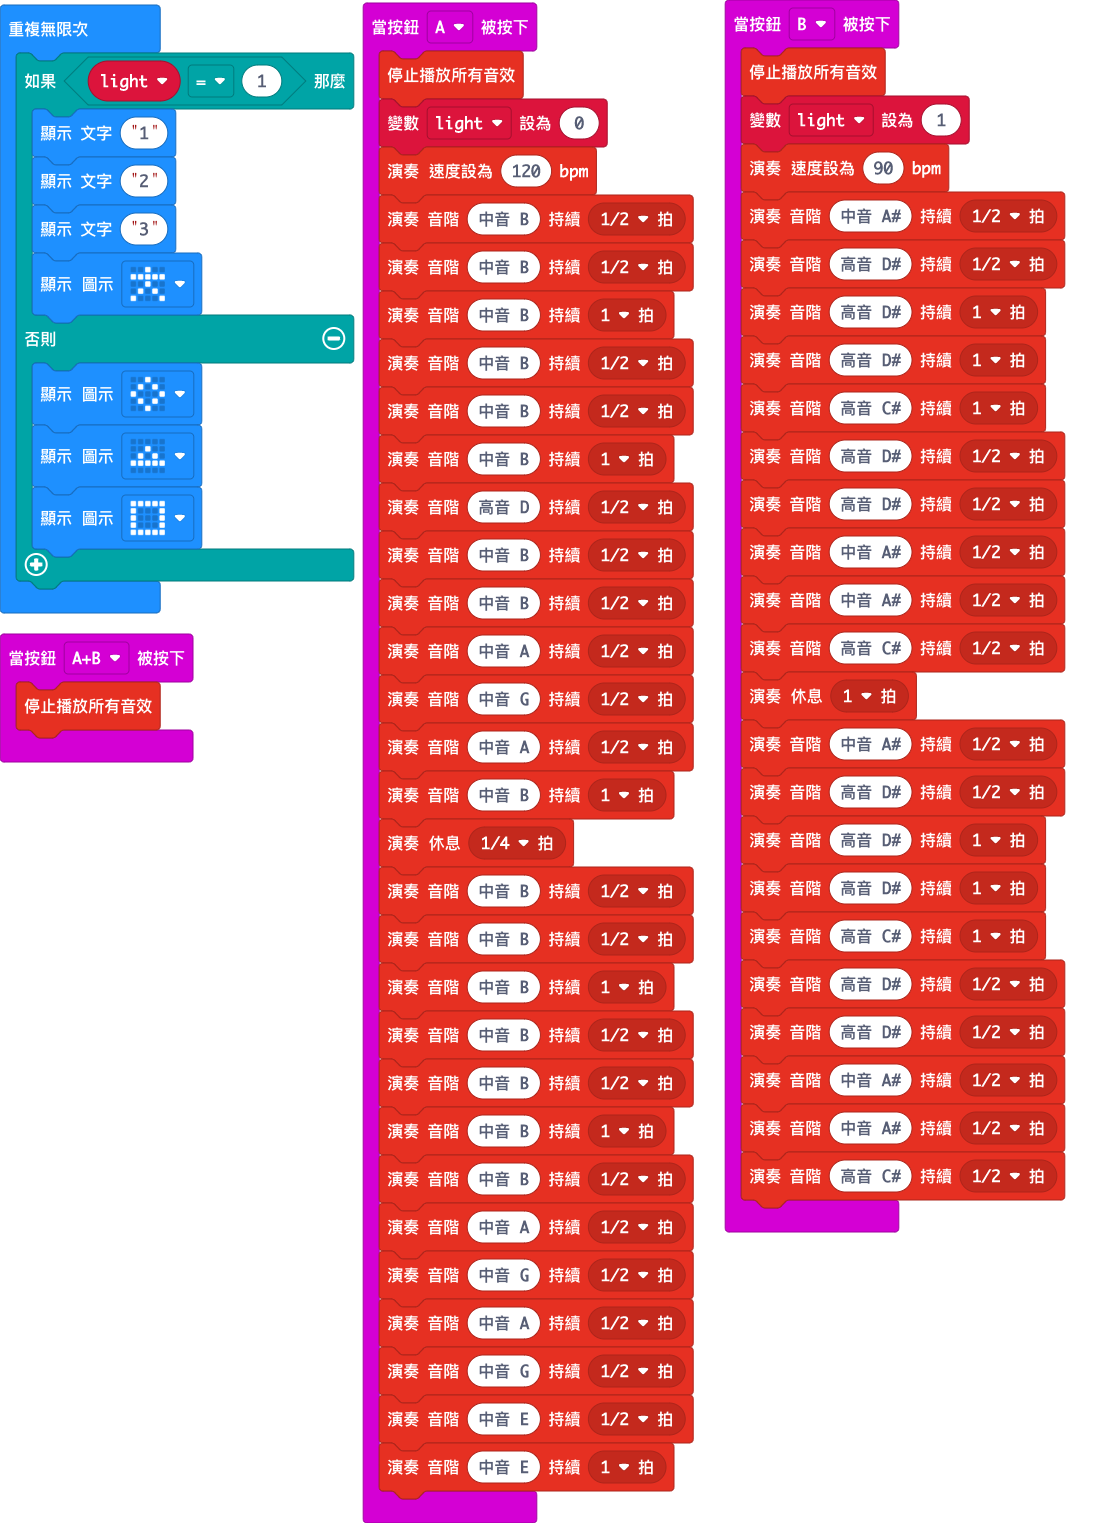
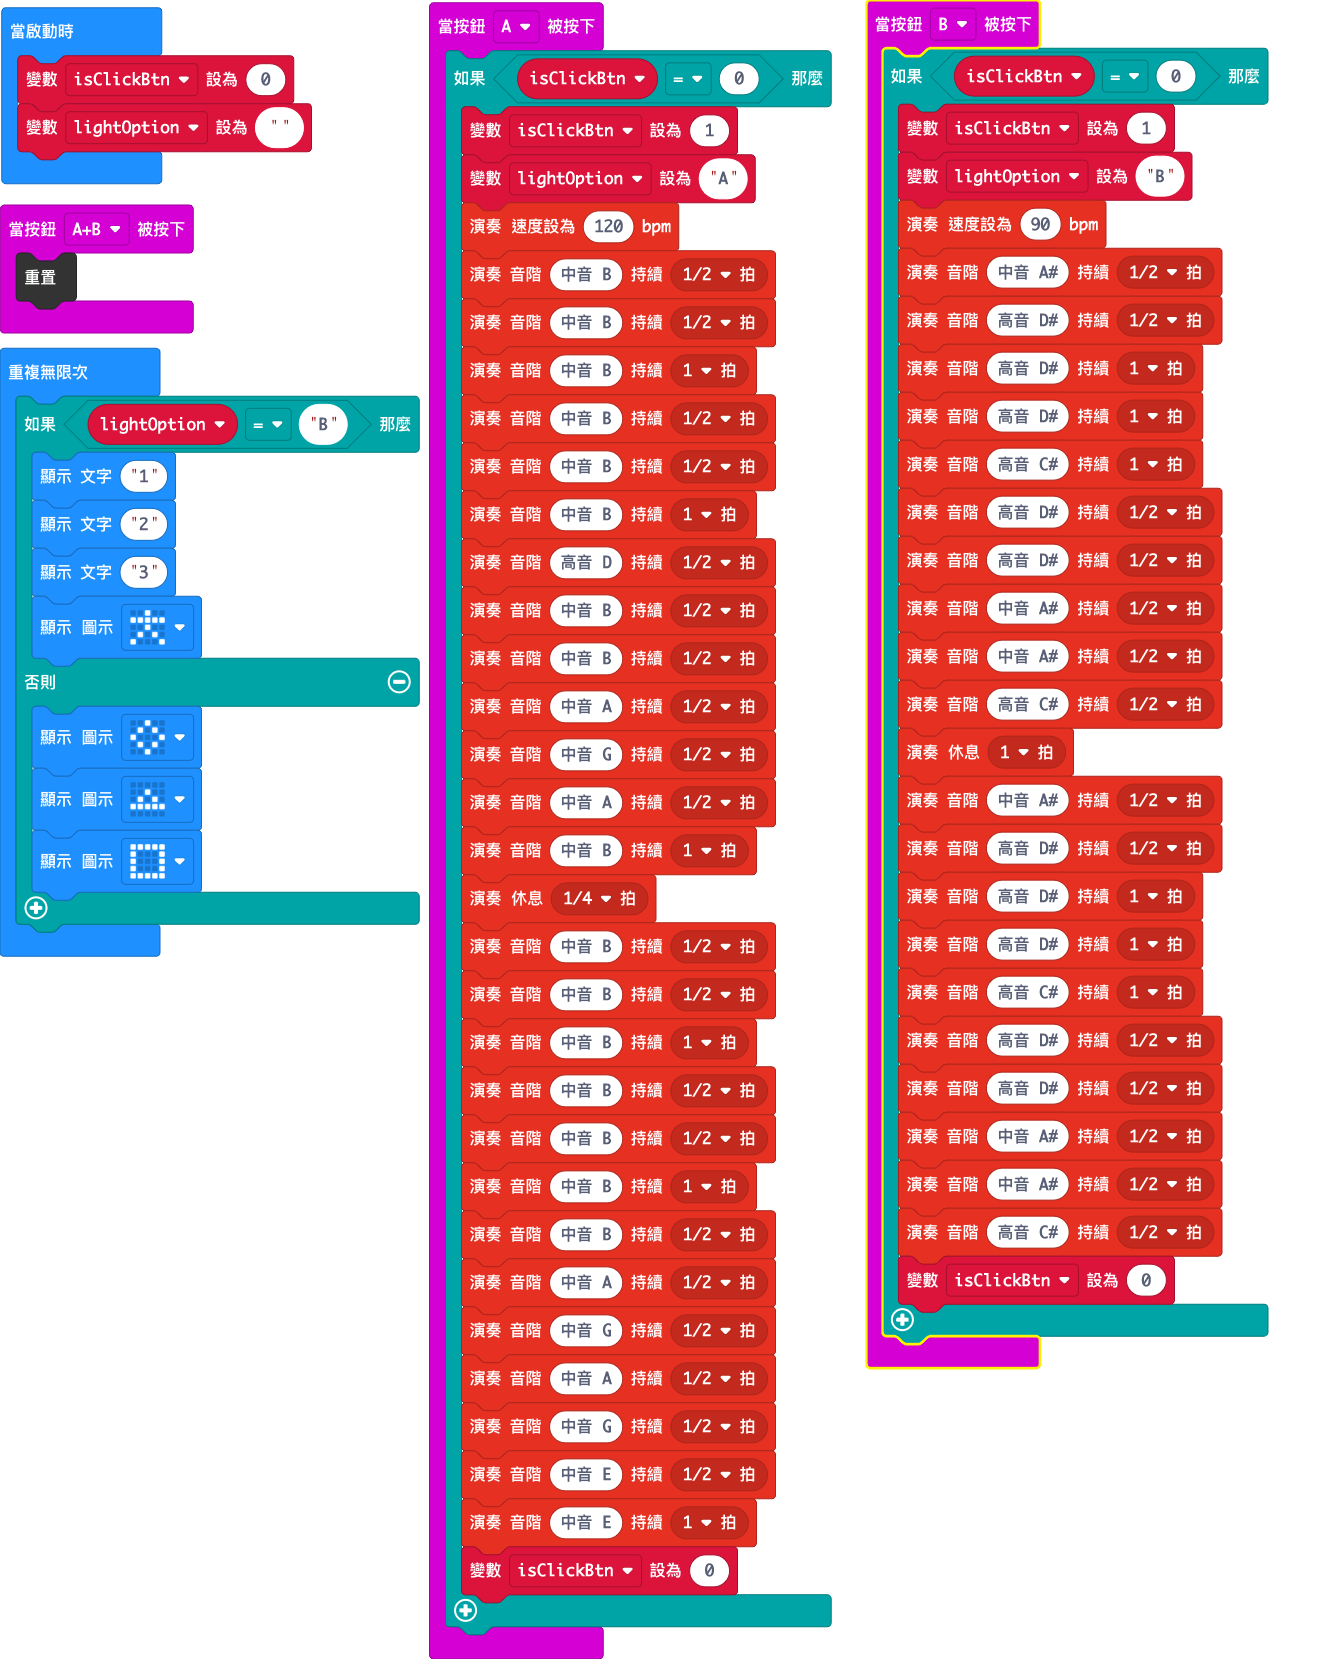
Refactor control click button event

diff --git a/main.ts b/main.ts
@@ -1,67 +1,76 @@
-let light2 = 0
 input.onButtonPressed(Button.A, function () {
-    music.stopAllSounds()
-    light2 = 0
-    music.setTempo(120)
-    music.playTone(494, music.beat(BeatFraction.Half))
-    music.playTone(494, music.beat(BeatFraction.Half))
-    music.playTone(494, music.beat(BeatFraction.Whole))
-    music.playTone(494, music.beat(BeatFraction.Half))
-    music.playTone(494, music.beat(BeatFraction.Half))
-    music.playTone(494, music.beat(BeatFraction.Whole))
-    music.playTone(587, music.beat(BeatFraction.Half))
-    music.playTone(494, music.beat(BeatFraction.Half))
-    music.playTone(494, music.beat(BeatFraction.Half))
-    music.playTone(440, music.beat(BeatFraction.Half))
-    music.playTone(392, music.beat(BeatFraction.Half))
-    music.playTone(440, music.beat(BeatFraction.Half))
-    music.playTone(494, music.beat(BeatFraction.Whole))
-    music.rest(music.beat(BeatFraction.Quarter))
-    music.playTone(494, music.beat(BeatFraction.Half))
-    music.playTone(494, music.beat(BeatFraction.Half))
-    music.playTone(494, music.beat(BeatFraction.Whole))
-    music.playTone(494, music.beat(BeatFraction.Half))
-    music.playTone(494, music.beat(BeatFraction.Half))
-    music.playTone(494, music.beat(BeatFraction.Whole))
-    music.playTone(494, music.beat(BeatFraction.Half))
-    music.playTone(440, music.beat(BeatFraction.Half))
-    music.playTone(392, music.beat(BeatFraction.Half))
-    music.playTone(440, music.beat(BeatFraction.Half))
-    music.playTone(392, music.beat(BeatFraction.Half))
-    music.playTone(330, music.beat(BeatFraction.Half))
-    music.playTone(330, music.beat(BeatFraction.Whole))
+    if (isClickBtn == 0) {
+        isClickBtn = 1
+        lightOption = "A"
+        music.setTempo(120)
+        music.playTone(494, music.beat(BeatFraction.Half))
+        music.playTone(494, music.beat(BeatFraction.Half))
+        music.playTone(494, music.beat(BeatFraction.Whole))
+        music.playTone(494, music.beat(BeatFraction.Half))
+        music.playTone(494, music.beat(BeatFraction.Half))
+        music.playTone(494, music.beat(BeatFraction.Whole))
+        music.playTone(587, music.beat(BeatFraction.Half))
+        music.playTone(494, music.beat(BeatFraction.Half))
+        music.playTone(494, music.beat(BeatFraction.Half))
+        music.playTone(440, music.beat(BeatFraction.Half))
+        music.playTone(392, music.beat(BeatFraction.Half))
+        music.playTone(440, music.beat(BeatFraction.Half))
+        music.playTone(494, music.beat(BeatFraction.Whole))
+        music.rest(music.beat(BeatFraction.Quarter))
+        music.playTone(494, music.beat(BeatFraction.Half))
+        music.playTone(494, music.beat(BeatFraction.Half))
+        music.playTone(494, music.beat(BeatFraction.Whole))
+        music.playTone(494, music.beat(BeatFraction.Half))
+        music.playTone(494, music.beat(BeatFraction.Half))
+        music.playTone(494, music.beat(BeatFraction.Whole))
+        music.playTone(494, music.beat(BeatFraction.Half))
+        music.playTone(440, music.beat(BeatFraction.Half))
+        music.playTone(392, music.beat(BeatFraction.Half))
+        music.playTone(440, music.beat(BeatFraction.Half))
+        music.playTone(392, music.beat(BeatFraction.Half))
+        music.playTone(330, music.beat(BeatFraction.Half))
+        music.playTone(330, music.beat(BeatFraction.Whole))
+        isClickBtn = 0
+    }
 })
 input.onButtonPressed(Button.AB, function () {
-    music.stopAllSounds()
+    control.reset()
 })
 input.onButtonPressed(Button.B, function () {
-    music.stopAllSounds()
-    light2 = 1
-    music.setTempo(90)
-    music.playTone(466, music.beat(BeatFraction.Half))
-    music.playTone(622, music.beat(BeatFraction.Half))
-    music.playTone(622, music.beat(BeatFraction.Whole))
-    music.playTone(622, music.beat(BeatFraction.Whole))
-    music.playTone(554, music.beat(BeatFraction.Whole))
-    music.playTone(622, music.beat(BeatFraction.Half))
-    music.playTone(622, music.beat(BeatFraction.Half))
-    music.playTone(466, music.beat(BeatFraction.Half))
-    music.playTone(466, music.beat(BeatFraction.Half))
-    music.playTone(554, music.beat(BeatFraction.Half))
-    music.rest(music.beat(BeatFraction.Whole))
-    music.playTone(466, music.beat(BeatFraction.Half))
-    music.playTone(622, music.beat(BeatFraction.Half))
-    music.playTone(622, music.beat(BeatFraction.Whole))
-    music.playTone(622, music.beat(BeatFraction.Whole))
-    music.playTone(554, music.beat(BeatFraction.Whole))
-    music.playTone(622, music.beat(BeatFraction.Half))
-    music.playTone(622, music.beat(BeatFraction.Half))
-    music.playTone(466, music.beat(BeatFraction.Half))
-    music.playTone(466, music.beat(BeatFraction.Half))
-    music.playTone(554, music.beat(BeatFraction.Half))
+    if (isClickBtn == 0) {
+        isClickBtn = 1
+        lightOption = "B"
+        music.setTempo(90)
+        music.playTone(466, music.beat(BeatFraction.Half))
+        music.playTone(622, music.beat(BeatFraction.Half))
+        music.playTone(622, music.beat(BeatFraction.Whole))
+        music.playTone(622, music.beat(BeatFraction.Whole))
+        music.playTone(554, music.beat(BeatFraction.Whole))
+        music.playTone(622, music.beat(BeatFraction.Half))
+        music.playTone(622, music.beat(BeatFraction.Half))
+        music.playTone(466, music.beat(BeatFraction.Half))
+        music.playTone(466, music.beat(BeatFraction.Half))
+        music.playTone(554, music.beat(BeatFraction.Half))
+        music.rest(music.beat(BeatFraction.Whole))
+        music.playTone(466, music.beat(BeatFraction.Half))
+        music.playTone(622, music.beat(BeatFraction.Half))
+        music.playTone(622, music.beat(BeatFraction.Whole))
+        music.playTone(622, music.beat(BeatFraction.Whole))
+        music.playTone(554, music.beat(BeatFraction.Whole))
+        music.playTone(622, music.beat(BeatFraction.Half))
+        music.playTone(622, music.beat(BeatFraction.Half))
+        music.playTone(466, music.beat(BeatFraction.Half))
+        music.playTone(466, music.beat(BeatFraction.Half))
+        music.playTone(554, music.beat(BeatFraction.Half))
+        isClickBtn = 0
+    }
 })
+let lightOption = ""
+let isClickBtn = 0
+isClickBtn = 0
+lightOption = ""
 basic.forever(function () {
-    if (light2 == 1) {
+    if (lightOption == "B") {
         basic.showString("1")
         basic.showString("2")
         basic.showString("3")
